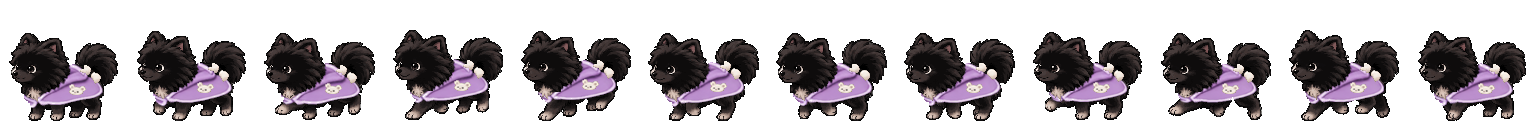
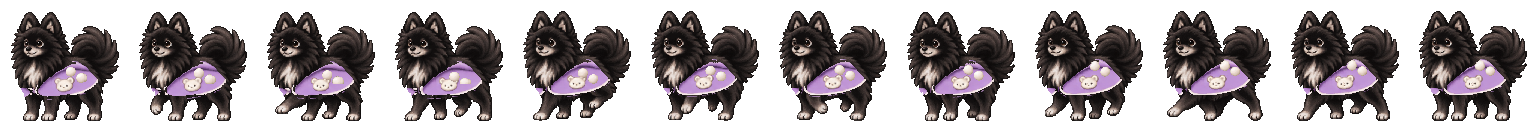
0.3.3: 성견이 걷거나 엎드릴 때 어려 보이던 그림 교체
- 성견 걷기 그림을 서 있는 그림과 같은 몸집·시점으로 다시 그림(기본 + 옷 9벌)
- 성견 엎드리기·낮잠·구르기: 앉았다가 엎드리고, 평소 모습 그림을 씀
- 엎드린 자세에서도 모자·안경·목 장식 표시
- scripts/match_tone.py: 새로 받은 시트의 밝기를 기존 그림에 맞추는 도구

diff --git a/crates/arong-app/src/sprites.rs b/crates/arong-app/src/sprites.rs
@@ -17,7 +17,7 @@ use crate::art::{self, Art};
 pub const CELL: usize = 128;
 /// 발이 닿는 줄(위에서부터 px).
 pub const GROUND: f64 = 121.0;
-/// 걷기(옆모습) 그림은 서 있는 그림보다 작게 그려져 있어, 몸집이 비슷해 보이도록 키운다(아기, 성장기, 성견).
+/// 걷기(옆모습) 그림은 서 있는 그림보다 작게 그려져 있어, 몸집이 비슷해 보이도록 키운다(아기, 성장기). 성견 걷기 그림은 제 크기라 키우지 않는다.
 const WALK_SCALE: [f64; 3] = [1.0, 1.08, 1.12];
 
 #[derive(Debug, Clone, Copy, PartialEq, Eq)]
@@ -238,7 +238,7 @@ pub struct Frame {
     pub head: (f64, f64),
     /// 어느 쪽에서 본 그림인지. 장식 위치가 달라진다.
     pub view: View,
-    /// 머리 위치를 믿을 수 있어 장식을 얹어도 되는지(구르는 동안은 얹지 않는다).
+    /// 머리 위치를 믿을 수 있어 장식을 얹어도 되는지(구르는 동안은 얹지 않는다. 성견의 엎드린 첫 프레임은 예외).
     pub wearable: bool,
 }
 
@@ -261,6 +261,7 @@ fn build(
     dressed: Option<(&[u8], Option<art::Tint>)>,
     stage: Stage,
     motion: Motion,
+    side: bool,
     shoes: Option<&str>,
 ) -> Option<(Vec<Frame>, Retained<CGImage>)> {
     let rep = NSBitmapImageRep::imageRepWithData(&NSData::with_bytes(bytes))?;
@@ -270,7 +271,6 @@ fn build(
         return None;
     }
     let count = width / CELL;
-    let side = motion == Motion::Walk;
     // 픽셀 사본은 기준점·경계 계산과 신발 칠하기에만 쓰고 바로 버린다.
     let mut pixels = Art::from_rep(&rep)?;
     let anchors: Vec<(i32, i32)> = (0..count).map(|col| art::head_anchor(&pixels, col, 0, CELL, side)).collect();
@@ -310,11 +310,12 @@ fn build(
             rect: (rx, ry, w as f64 * scale, h as f64 * scale),
             head: place(ax as f64, ay as f64),
             view: match motion {
-                Motion::Walk => View::Side,
+                Motion::Walk if side => View::Side,
                 Motion::Look => View::Front,
                 _ => View::Quarter,
             },
-            wearable: motion != Motion::Roll,
+            // 성견은 구르기의 첫 프레임(엎드린 자세)을 엎드려 머무는 그림으로도 쓰므로 거기에는 장식을 얹는다.
+            wearable: motion != Motion::Roll || (stage == Stage::Adult && col == 0),
         });
     }
     // 서 있는 자세가 0번이 되도록 돌린다.
@@ -332,7 +333,9 @@ impl Atlas {
         let mut sources = Vec::with_capacity(MOTIONS.len());
         for motion in MOTIONS {
             let dressed = clothes.and_then(|id| outfit_sheet(id, stage, motion));
-            let (frames, source) = build(sheets[motion as usize], dressed, stage, motion, shoes)?;
+            // 걷기는 옆모습 그림이다. 성견의 걷기 그림만 서 있는 그림과 같은 몸집·같은 시점(3/4 정면)으로 그려져 있다.
+            let side = motion == Motion::Walk && stage != Stage::Adult;
+            let (frames, source) = build(sheets[motion as usize], dressed, stage, motion, side, shoes)?;
             motions.push(frames);
             sources.push(source);
         }
@@ -410,8 +413,11 @@ mod tests {
                     assert!(w > 20.0 && h > 20.0 && w * h < cell * cell);
                     // 발(또는 배)이 바닥 줄 근처에 닿는다.
                     assert!((y + h - GROUND).abs() <= 7.0, "{stage:?} {motion:?} {index} bottom {}", y + h);
-                    assert_eq!(frame.view == View::Side, motion == Motion::Walk);
-                    assert_eq!(frame.wearable, motion != Motion::Roll);
+                    // 성견의 걷기 그림은 서 있는 그림과 같은 시점이다.
+                    assert_eq!(frame.view == View::Side, motion == Motion::Walk && stage != Stage::Adult);
+                    // 구르는 동안은 장식을 얹지 않는다. 성견의 첫 프레임(엎드린 자세)만 예외다.
+                    let lying = stage == Stage::Adult && motion == Motion::Roll && index == 0;
+                    assert_eq!(frame.wearable, motion != Motion::Roll || lying, "{stage:?} {motion:?} {index}");
                 }
             }
             // 기본 자세(왼발 주기 0번)와 앉기·엎드리기의 0번은 서 있는 자세라 키가 비슷하고,

diff --git a/crates/arong-app/src/app.rs b/crates/arong-app/src/app.rs
@@ -409,6 +409,9 @@ pub struct Ivars {
 const UPDATE_EVERY_SECS: i64 = 20 * 3600;
 const UPDATE_REMIND_SECS: i64 = 3 * 3600;
 
+/// 성견이 엎드려 있는 자세: 구르기 그림의 첫 프레임.
+const LYING: (Motion, usize) = (Motion::Roll, 0);
+
 fn now_wall() -> i64 {
     SystemTime::now().duration_since(UNIX_EPOCH).map(|d| d.as_secs() as i64).unwrap_or(0)
 }
@@ -856,6 +859,7 @@ define_class!(
                     (Motion::SitUp, None, true, false),
                     (Motion::LieDown, None, true, false),
                     (Motion::Roll, Some(4), true, false),
+                    (Motion::Roll, Some(0), true, false),
                     (Motion::Pant, Some(2), true, false),
                     (Motion::Look, Some(1), true, false),
                     (Motion::Look, Some(4), false, false),
@@ -2234,7 +2238,8 @@ impl Controller {
         let iv = self.ivars();
         let mut list: Vec<(Motion, usize)> = Vec::new();
         // 성견의 `Sit` 그림은 다른 성견 그림보다 몸집이 작게 그려져 있어서, 성견은 앉는 동작에 `SitUp` 그림을 쓴다.
-        let sit = if self.look_stage() == Stage::Adult { Motion::SitUp } else { Motion::Sit };
+        let adult = self.look_stage() == Stage::Adult;
+        let sit = if adult { Motion::SitUp } else { Motion::Sit };
         {
             let atlas = iv.atlas.borrow();
             let Some(a) = atlas.as_ref() else { return };
@@ -2250,6 +2255,25 @@ impl Controller {
                     list.extend(down(m));
                     list.extend(pause(m, if matches!(act, Act::Eat) { 22 } else { 12 }));
                     list.extend(up(m));
+                }
+                // 성견의 `LieDown` 그림은 서 있는 앞뒤 프레임이 다른 성견 그림보다 마르게 그려져 있다.
+                // 그래서 성견은 앉았다가 엎드리고(구르기 그림의 첫 프레임이 평소 모습 그대로 엎드린 자세다),
+                // 일어날 때도 앉았다가 선다. 눈 감고 자는 프레임만 `LieDown`에서 가져온다.
+                Act::Nap if adult => {
+                    list.extend(down(Motion::SitUp));
+                    list.extend([LYING; 3]);
+                    list.extend(pause(Motion::LieDown, 36));
+                    list.extend([LYING; 3]);
+                    list.extend(up(Motion::SitUp));
+                }
+                Act::Roll if adult => {
+                    list.extend(down(Motion::SitUp));
+                    list.extend(all(Motion::Roll));
+                    list.extend(up(Motion::SitUp));
+                }
+                Act::LieStay if adult => {
+                    list.extend(down(Motion::SitUp));
+                    list.push(LYING);
                 }
                 Act::Nap => {
                     list.extend(down(Motion::LieDown));
@@ -3261,7 +3285,8 @@ impl Controller {
         if !iv.held.get() {
             return;
         }
-        let motion = iv.motion.get();
+        // 성견이 엎드려 있을 때(구르기 그림의 첫 프레임)는 앉았다가 일어선다.
+        let motion = if iv.motion.get() == Motion::Roll { Motion::SitUp } else { iv.motion.get() };
         let list: Vec<(Motion, usize)> = match iv.atlas.borrow().as_ref() {
             Some(a) => (a.hold(motion)..a.len(motion)).map(|i| (motion, i)).collect(),
             None => return,

diff --git a/scripts/match_tone.py b/scripts/match_tone.py
@@ -1,0 +1,55 @@
+#!/usr/bin/env python3
+"""새로 받은 시트의 밝기를 기준 시트에 맞춘다(색조는 그대로 두고 밝기 분포만 옮긴다).
+
+    python3 scripts/match_tone.py <받은 시트> <기준 시트> <출력>
+
+AI로 다시 그린 시트는 기존 그림보다 전체적으로 밝거나 어둡게 나오는 일이 있다.
+불투명 픽셀의 밝기 분포를 기준 시트의 분포에 맞춰(히스토그램 매칭) 같은 강아지로 보이게 한다.
+"""
+import sys, os
+sys.path.insert(0, os.path.dirname(os.path.abspath(__file__)))
+from pngio import read_png, write_png
+
+
+def lum(q):
+    return 0.299 * q[0] + 0.587 * q[1] + 0.114 * q[2]
+
+
+def cdf(pixels):
+    hist = [0] * 256
+    for q in pixels:
+        hist[int(lum(q) + 0.5)] += 1
+    total, run, out = sum(hist), 0, []
+    for n in hist:
+        run += n
+        out.append(run / total)
+    return out
+
+
+def main(src, ref, dst):
+    w, h, px = read_png(src)
+    _, _, ref_px = read_png(ref)
+    solid = lambda rows: [q for row in rows for q in row if q[3] > 127]
+    a, b = cdf(solid(px)), cdf(solid(ref_px))
+    # 받은 시트의 밝기 v → 기준 시트에서 같은 순위에 있는 밝기.
+    table, j = [], 0
+    for v in range(256):
+        while j < 255 and b[j] < a[v]:
+            j += 1
+        table.append(j)
+    out = []
+    for row in px:
+        new = []
+        for q in row:
+            if q[3] == 0:
+                new.append(q)
+                continue
+            v = lum(q)
+            k = table[int(v + 0.5)] / v if v > 0.5 else 1.0
+            new.append((min(255, int(q[0] * k + 0.5)), min(255, int(q[1] * k + 0.5)), min(255, int(q[2] * k + 0.5)), q[3]))
+        out.append(new)
+    write_png(dst, w, h, out)
+
+
+if __name__ == "__main__":
+    main(*sys.argv[1:4])
